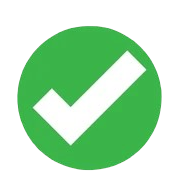
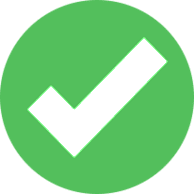
bug fixes

diff --git a/script.js b/script.js
@@ -10,13 +10,9 @@ function tick() {
   const src = attr.value;
   if(src === "tick_.png") {
     btn.setAttribute("src","tick.png");
-    btn.setAttribute("width","32");
-    btn.setAttribute("height","32");
   }
   else {
     btn.setAttribute("src","tick_.png");
-    btn.setAttribute("width","25");
-    btn.setAttribute("height","25");
   }
 
 }
